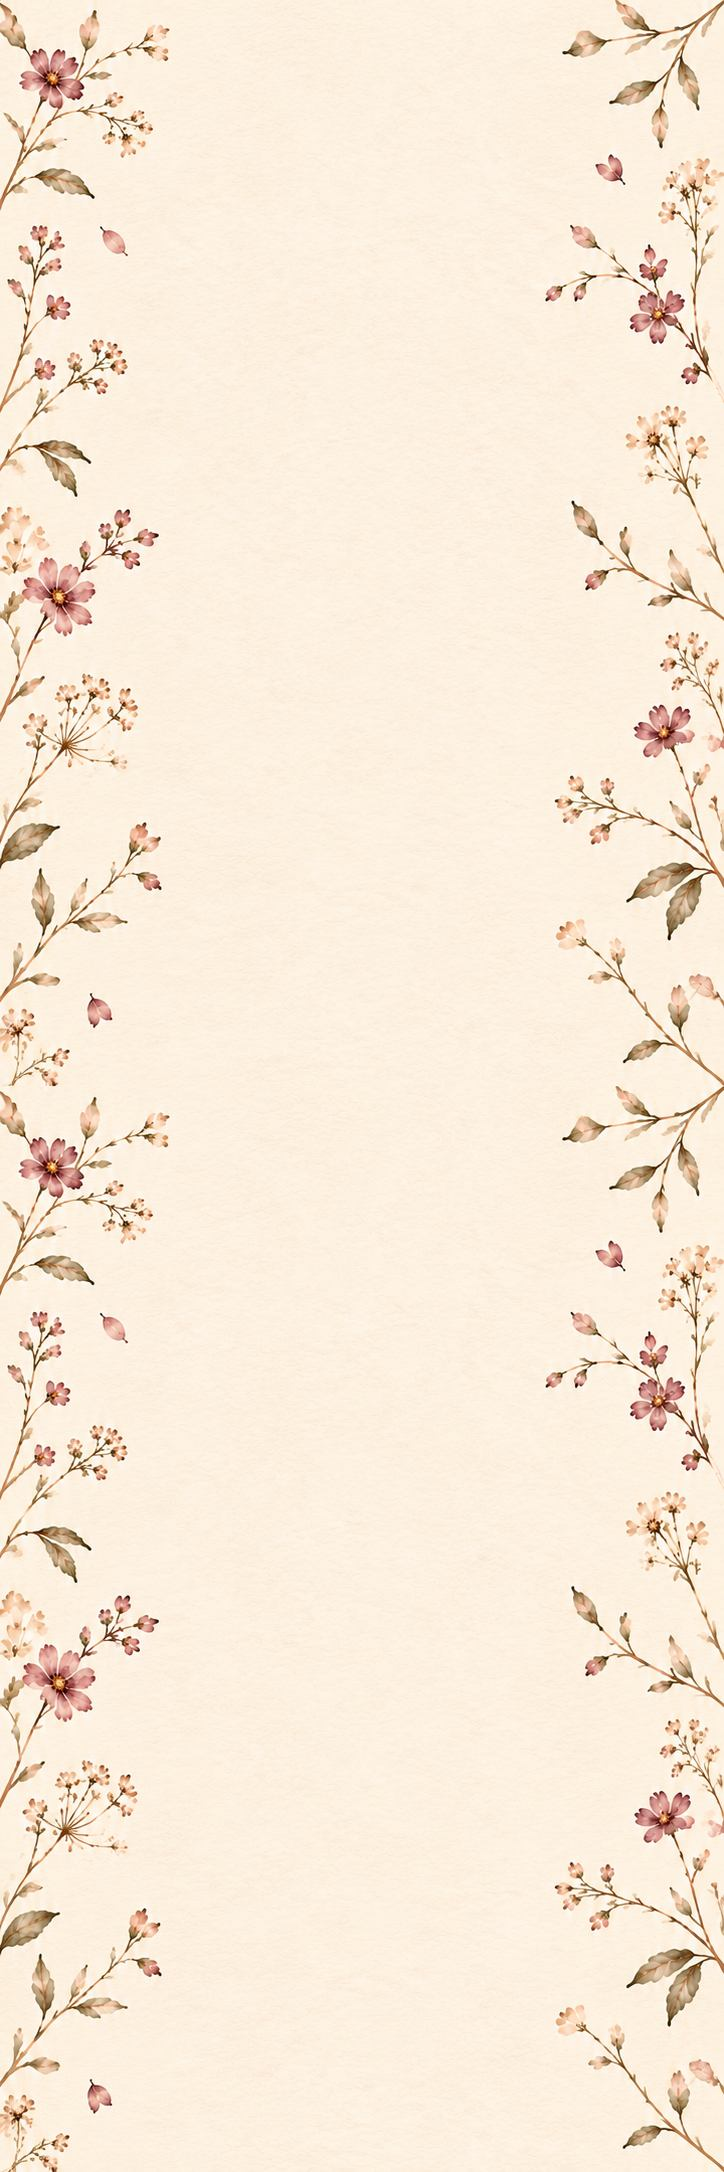
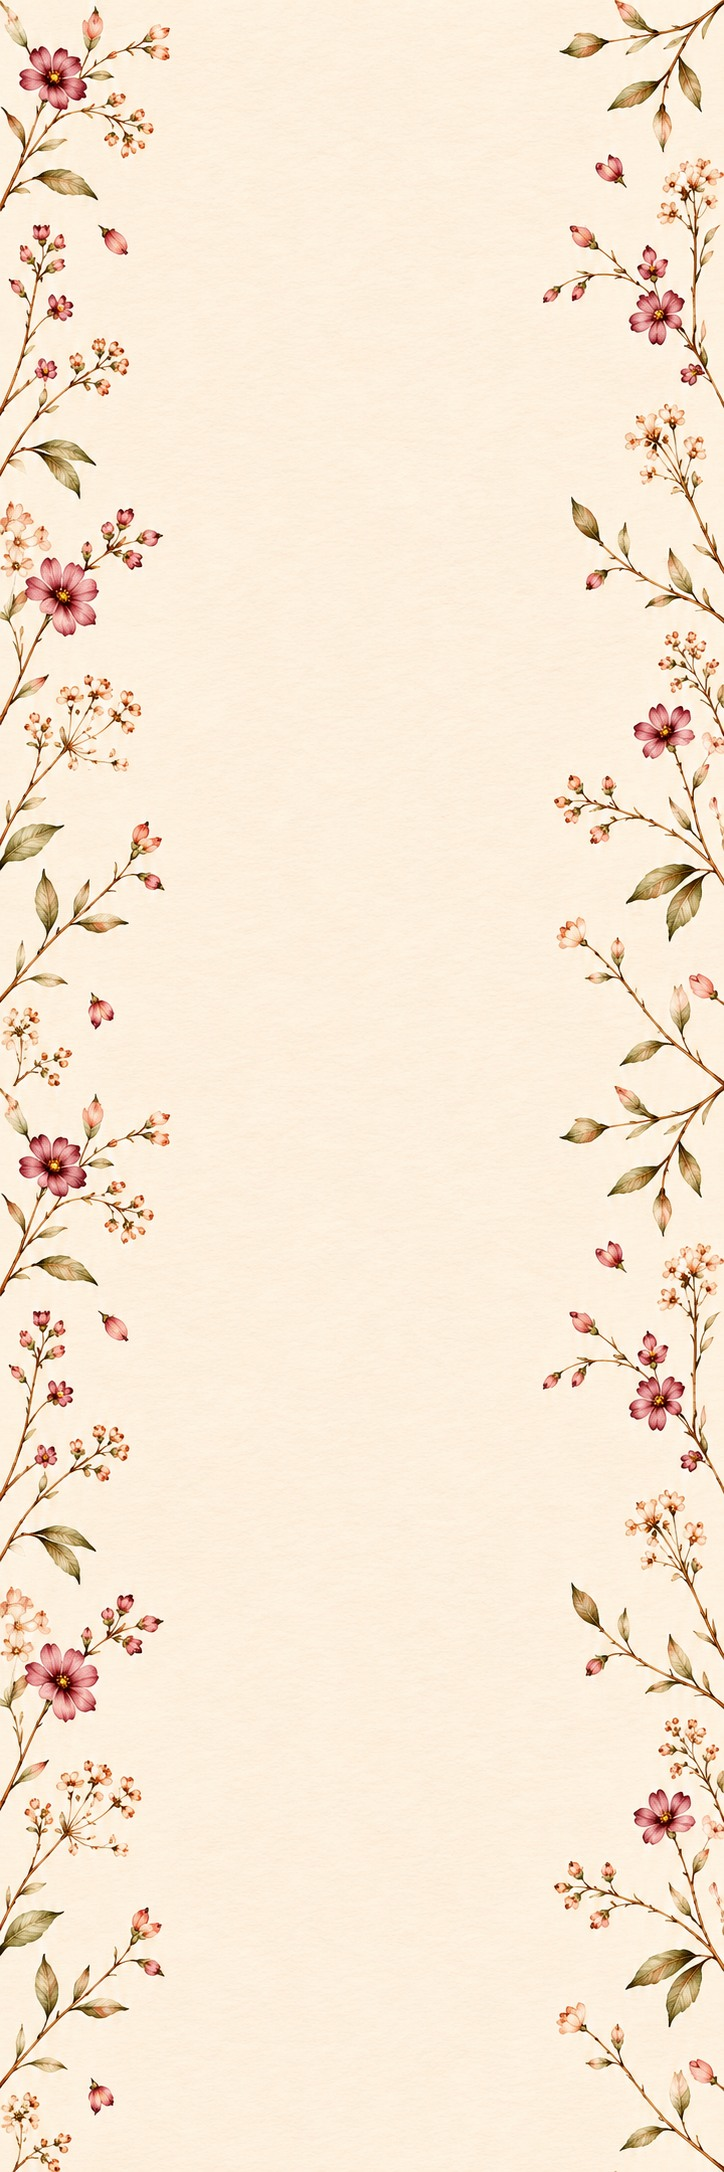
Hintergrund: neues Aquarell-Rahmenbild (bg-parallax, verlustarm komprimiert, Originalmaße 724x2172 beibehalten)

diff --git a/easteregg/editor.html b/easteregg/editor.html
@@ -8,7 +8,7 @@
     <link rel="preconnect" href="https://fonts.googleapis.com">
     <link rel="preconnect" href="https://fonts.gstatic.com" crossorigin>
     <link href="https://fonts.googleapis.com/css2?family=Playfair+Display:wght@600;700&family=Lora:wght@400;500&display=swap" rel="stylesheet">
-    <link rel="stylesheet" href="../css/style.css?v=20261064">
+    <link rel="stylesheet" href="../css/style.css?v=20261065">
     <style>
         .ed-wrap { max-width: 1180px; margin: 0 auto; padding: 2rem 1.25rem 4rem; }
         .ed-head { margin-bottom: 1.25rem; }

diff --git a/index.html b/index.html
@@ -9,7 +9,7 @@
     <link rel="preconnect" href="https://fonts.googleapis.com">
     <link rel="preconnect" href="https://fonts.gstatic.com" crossorigin>
     <link href="https://fonts.googleapis.com/css2?family=Playfair+Display:ital,wght@0,400;0,600;0,700;1,400&family=Lora:ital,wght@0,400;0,500;1,400&family=Great+Vibes&family=Caveat:wght@400;600&display=swap" rel="stylesheet">
-    <link rel="stylesheet" href="css/style.css?v=20261064">
+    <link rel="stylesheet" href="css/style.css?v=20261065">
 </head>
 <body>
     <!-- Envelope Animation Overlay -->

diff --git a/easteregg/index.html b/easteregg/index.html
@@ -8,7 +8,7 @@
     <link rel="preconnect" href="https://fonts.googleapis.com">
     <link rel="preconnect" href="https://fonts.gstatic.com" crossorigin>
     <link href="https://fonts.googleapis.com/css2?family=Playfair+Display:ital,wght@0,400;0,600;0,700;1,400&family=Lora:ital,wght@0,400;0,500;1,400&family=Press+Start+2P&display=swap" rel="stylesheet">
-    <link rel="stylesheet" href="../css/style.css?v=20261064">
+    <link rel="stylesheet" href="../css/style.css?v=20261065">
     <style>
         .egg-wrap {
             max-width: 1040px;

diff --git a/fotogalerie.html b/fotogalerie.html
@@ -9,7 +9,7 @@
     <link rel="preconnect" href="https://fonts.googleapis.com">
     <link rel="preconnect" href="https://fonts.gstatic.com" crossorigin>
     <link href="https://fonts.googleapis.com/css2?family=Playfair+Display:ital,wght@0,400;0,600;0,700;1,400&family=Lora:ital,wght@0,400;0,500;1,400&display=swap" rel="stylesheet">
-    <link rel="stylesheet" href="css/style.css?v=20261064">
+    <link rel="stylesheet" href="css/style.css?v=20261065">
     <style>
         .fotogalerie-page {
             min-height: 100vh;

diff --git a/impressum.html b/impressum.html
@@ -9,7 +9,7 @@
     <link rel="preconnect" href="https://fonts.googleapis.com">
     <link rel="preconnect" href="https://fonts.gstatic.com" crossorigin>
     <link href="https://fonts.googleapis.com/css2?family=Playfair+Display:ital,wght@0,400;0,600;0,700;1,400&family=Lora:ital,wght@0,400;0,500;1,400&display=swap" rel="stylesheet">
-    <link rel="stylesheet" href="css/style.css?v=20261064">
+    <link rel="stylesheet" href="css/style.css?v=20261065">
     <style>
         .impressum-page {
             min-height: 100vh;

diff --git a/ablauf.html b/ablauf.html
@@ -9,7 +9,7 @@
     <link rel="preconnect" href="https://fonts.googleapis.com">
     <link rel="preconnect" href="https://fonts.gstatic.com" crossorigin>
     <link href="https://fonts.googleapis.com/css2?family=Playfair+Display:ital,wght@0,400;0,600;0,700;1,400&family=Lora:ital,wght@0,400;0,500;1,400&display=swap" rel="stylesheet">
-    <link rel="stylesheet" href="css/style.css?v=20261064">
+    <link rel="stylesheet" href="css/style.css?v=20261065">
     <style>
         .subpage {
             min-height: 100vh;

diff --git a/location.html b/location.html
@@ -9,7 +9,7 @@
     <link rel="preconnect" href="https://fonts.googleapis.com">
     <link rel="preconnect" href="https://fonts.gstatic.com" crossorigin>
     <link href="https://fonts.googleapis.com/css2?family=Playfair+Display:ital,wght@0,400;0,600;0,700;1,400&family=Lora:ital,wght@0,400;0,500;1,400&display=swap" rel="stylesheet">
-    <link rel="stylesheet" href="css/style.css?v=20261064">
+    <link rel="stylesheet" href="css/style.css?v=20261065">
     <style>
         .subpage {
             min-height: 100vh;

diff --git a/zimmer.html b/zimmer.html
@@ -9,7 +9,7 @@
     <link rel="preconnect" href="https://fonts.googleapis.com">
     <link rel="preconnect" href="https://fonts.gstatic.com" crossorigin>
     <link href="https://fonts.googleapis.com/css2?family=Playfair+Display:ital,wght@0,400;0,600;0,700;1,400&family=Lora:ital,wght@0,400;0,500;1,400&display=swap" rel="stylesheet">
-    <link rel="stylesheet" href="css/style.css?v=20261064">
+    <link rel="stylesheet" href="css/style.css?v=20261065">
     <style>
         .subpage {
             min-height: 100vh;

diff --git a/geschichte.html b/geschichte.html
@@ -9,7 +9,7 @@
     <link rel="preconnect" href="https://fonts.googleapis.com">
     <link rel="preconnect" href="https://fonts.gstatic.com" crossorigin>
     <link href="https://fonts.googleapis.com/css2?family=Playfair+Display:ital,wght@0,400;0,600;0,700;1,400&family=Lora:ital,wght@0,400;0,500;1,400&display=swap" rel="stylesheet">
-    <link rel="stylesheet" href="css/style.css?v=20261064">
+    <link rel="stylesheet" href="css/style.css?v=20261065">
     <style>
         .story {
             max-width: 720px;
